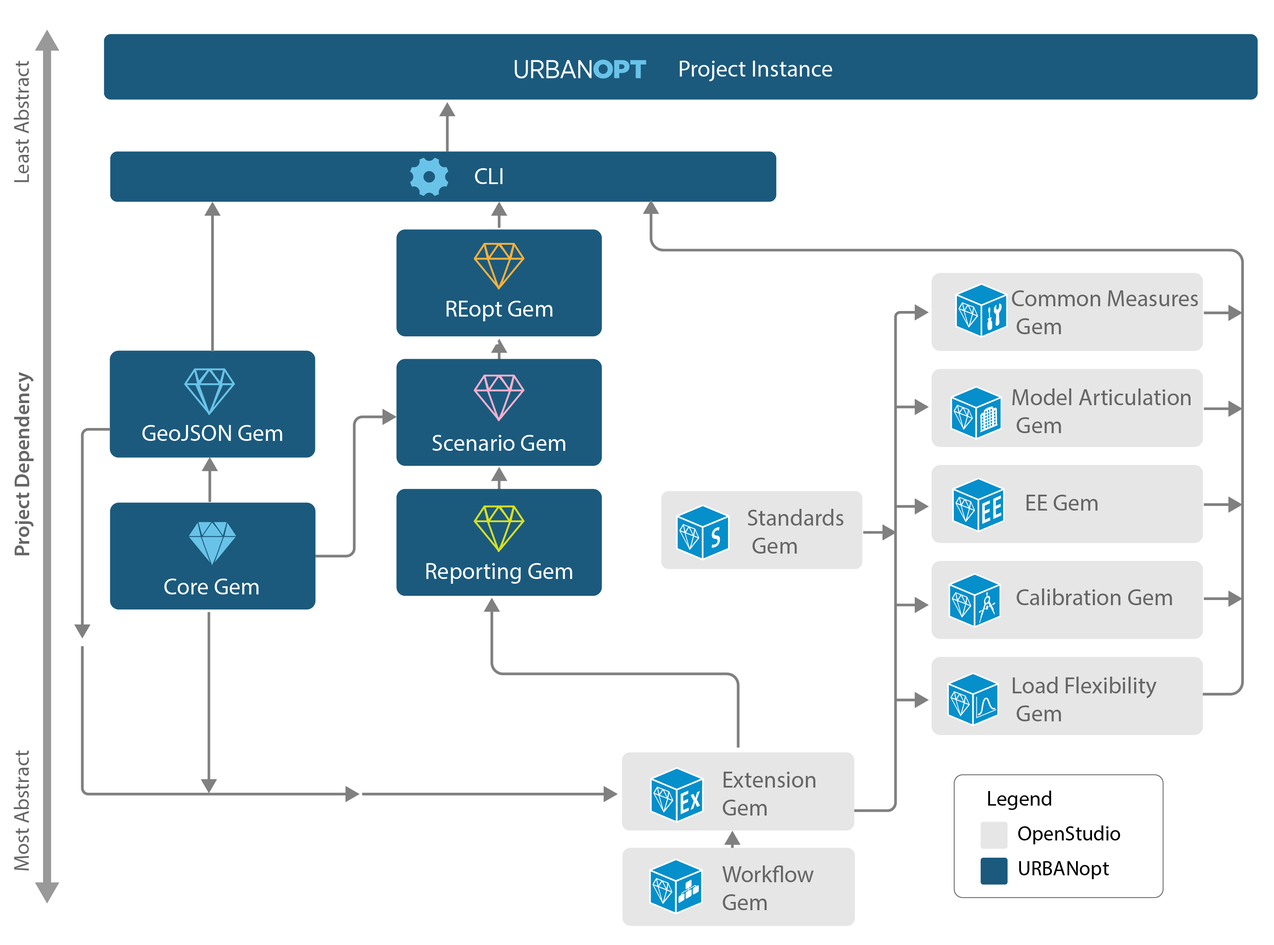
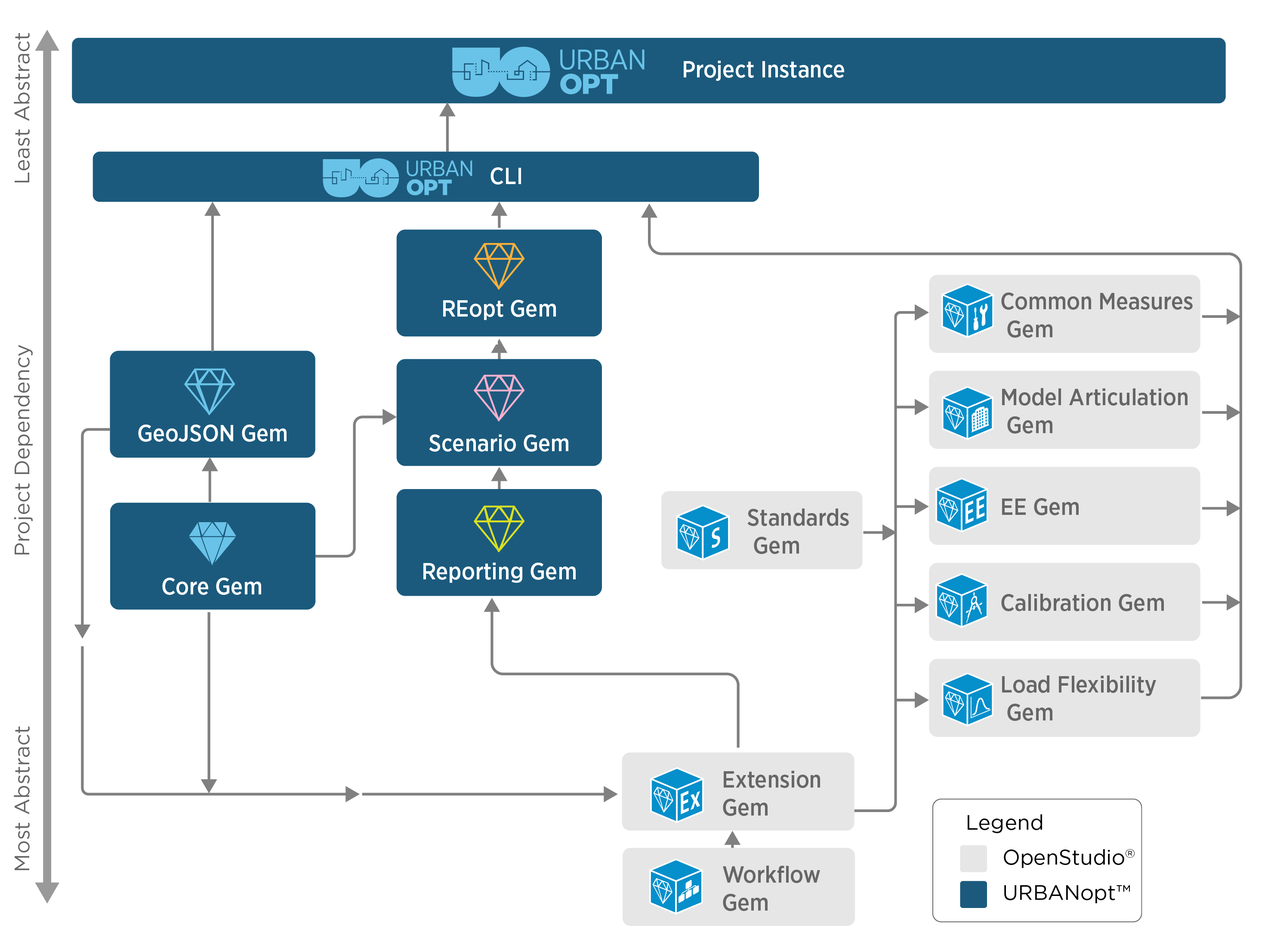
diagram updates

diff --git a/_site/index.html b/_site/index.html
@@ -1,1 +1,1 @@
-<!DOCTYPE html> <html lang="en-US"> <head> <meta charset="UTF-8"> <meta http-equiv="X-UA-Compatible" content="IE=Edge"> <title>Home - URBANopt Docs</title> <link rel="shortcut icon" href="/favicon.ico" type="image/x-icon"> <link rel="stylesheet" href="/assets/css/just-the-docs-default.css"> <script type="text/javascript" src="/assets/js/vendor/lunr.min.js"></script> <script type="text/javascript" src="/assets/js/just-the-docs.js"></script> <meta name="viewport" content="width=device-width, initial-scale=1"> <!-- Begin Jekyll SEO tag v2.6.1 --> <title>Home | [“URBANopt Docs”]</title> <meta name="generator" content="Jekyll v3.8.7" /> <meta property="og:title" content="Home" /> <meta property="og:locale" content="en_US" /> <meta name="description" content="[“Documentation for the URBANopt Software Development Kit”]" /> <meta property="og:description" content="[“Documentation for the URBANopt Software Development Kit”]" /> <link rel="canonical" href="http://localhost:4000/" /> <meta property="og:url" content="http://localhost:4000/" /> <meta property="og:site_name" content="[“URBANopt Docs”]" /> <script type="application/ld+json"> {"publisher":{"@type":"Organization","logo":{"@type":"ImageObject","url":"http://localhost:4000/doc_files/URBANopt-Logo-Horizontal-2Color.png"}},"url":"http://localhost:4000/","headline":"Home","name":"[“URBANopt Docs”]","description":"[“Documentation for the URBANopt Software Development Kit”]","@type":"WebSite","@context":"https://schema.org"}</script> <!-- End Jekyll SEO tag --> </head> <body> <svg xmlns="http://www.w3.org/2000/svg" style="display: none;"> <symbol id="svg-link" viewBox="0 0 24 24"> <title>Link</title> <svg xmlns="http://www.w3.org/2000/svg" width="24" height="24" viewBox="0 0 24 24" fill="none" stroke="currentColor" stroke-width="2" stroke-linecap="round" stroke-linejoin="round" class="feather feather-link"> <path d="M10 13a5 5 0 0 0 7.54.54l3-3a5 5 0 0 0-7.07-7.07l-1.72 1.71"></path><path d="M14 11a5 5 0 0 0-7.54-.54l-3 3a5 5 0 0 0 7.07 7.07l1.71-1.71"></path> </svg> </symbol> <symbol id="svg-search" viewBox="0 0 24 24"> <title>Search</title> <svg xmlns="http://www.w3.org/2000/svg" width="24" height="24" viewBox="0 0 24 24" fill="none" stroke="currentColor" stroke-width="2" stroke-linecap="round" stroke-linejoin="round" class="feather feather-search"> <circle cx="11" cy="11" r="8"></circle><line x1="21" y1="21" x2="16.65" y2="16.65"></line> </svg> </symbol> <symbol id="svg-menu" viewBox="0 0 24 24"> <title>Menu</title> <svg xmlns="http://www.w3.org/2000/svg" width="24" height="24" viewBox="0 0 24 24" fill="none" stroke="currentColor" stroke-width="2" stroke-linecap="round" stroke-linejoin="round" class="feather feather-menu"> <line x1="3" y1="12" x2="21" y2="12"></line><line x1="3" y1="6" x2="21" y2="6"></line><line x1="3" y1="18" x2="21" y2="18"></line> </svg> </symbol> <symbol id="svg-arrow-right" viewBox="0 0 24 24"> <title>Expand</title> <svg xmlns="http://www.w3.org/2000/svg" width="24" height="24" viewBox="0 0 24 24" fill="none" stroke="currentColor" stroke-width="2" stroke-linecap="round" stroke-linejoin="round" class="feather feather-chevron-right"> <polyline points="9 18 15 12 9 6"></polyline> </svg> </symbol> <symbol id="svg-doc" viewBox="0 0 24 24"> <title>Document</title> <svg xmlns="http://www.w3.org/2000/svg" width="24" height="24" viewBox="0 0 24 24" fill="none" stroke="currentColor" stroke-width="2" stroke-linecap="round" stroke-linejoin="round" class="feather feather-file"> <path d="M13 2H6a2 2 0 0 0-2 2v16a2 2 0 0 0 2 2h12a2 2 0 0 0 2-2V9z"></path><polyline points="13 2 13 9 20 9"></polyline> </svg> </symbol> </svg> <div class="side-bar"> <div class="site-header"> <a href="http://localhost:4000/" class="site-title lh-tight"> <div class="site-logo"></div> </a> <a href="#" id="menu-button" class="site-button"> <svg viewBox="0 0 24 24" class="icon"><use xlink:href="#svg-menu"></use></svg> </a> </div> <nav role="navigation" aria-label="Main" id="site-nav" class="site-nav"> <ul class="nav-list"><li class="nav-list-item active"><a href="http://localhost:4000/" class="nav-list-link active">Home</a></li><li class="nav-list-item"><a href="http://localhost:4000/getting_started/getting_started.html" class="nav-list-link">Getting Started</a></li><li class="nav-list-item"><a href="#" class="nav-list-expander"><svg viewBox="0 0 24 24"><use xlink:href="#svg-arrow-right"></use></svg></a><a href="http://localhost:4000/installation/installation.html" class="nav-list-link">Installation</a><ul class="nav-list "><li class="nav-list-item "><a href="http://localhost:4000/installation/mac.html" class="nav-list-link">Mac Installation</a></li><li class="nav-list-item "><a href="http://localhost:4000/installation/windows.html" class="nav-list-link">Windows Installation</a></li><li class="nav-list-item "><a href="http://localhost:4000/installation/linux.html" class="nav-list-link">Linux Installation</a></li><li class="nav-list-item "><a href="http://localhost:4000/installation/ditto_reader.html" class="nav-list-link">OpenDSS Installation</a></li><li class="nav-list-item "><a href="http://localhost:4000/installation/des_installation.html" class="nav-list-link">DES Installation</a></li><li class="nav-list-item "><a href="http://localhost:4000/installation/troubleshooting.html" class="nav-list-link">Troubleshooting</a></li></ul></li><li class="nav-list-item"><a href="#" class="nav-list-expander"><svg viewBox="0 0 24 24"><use xlink:href="#svg-arrow-right"></use></svg></a><a href="http://localhost:4000/workflows/workflows.html" class="nav-list-link">Workflows</a><ul class="nav-list "><li class="nav-list-item "><a href="#" class="nav-list-expander"><svg viewBox="0 0 24 24"><use xlink:href="#svg-arrow-right"></use></svg></a><a href="http://localhost:4000/workflows/reopt/reopt.html" class="nav-list-link">REopt</a><ul class="nav-list"><li class="nav-list-item "> <a href="http://localhost:4000/workflows/reopt/run_reopt.html" class="nav-list-link">Example REopt Project</a> </li><li class="nav-list-item "> <a href="http://localhost:4000/workflows/reopt/reopt_post_processing.html" class="nav-list-link">REopt Post Processing</a> </li><li class="nav-list-item "> <a href="http://localhost:4000/workflows/reopt/reopt_customization.html" class="nav-list-link">REopt Customization</a> </li></ul></li><li class="nav-list-item "><a href="http://localhost:4000/workflows/opendss/opendss.html" class="nav-list-link">OpenDSS Converter</a></li><li class="nav-list-item "><a href="http://localhost:4000/workflows/des.html" class="nav-list-link">District Energy Systems (DES)</a></li><li class="nav-list-item "><a href="http://localhost:4000/workflows/residential_workflows.html" class="nav-list-link">Residential Workflows</a></li><li class="nav-list-item "><a href="http://localhost:4000/workflows/geometry_workflows.html" class="nav-list-link">Geometry Workflows</a></li><li class="nav-list-item "><a href="http://localhost:4000/workflows/optimization.html" class="nav-list-link">Optimization Workflows</a></li></ul></li><li class="nav-list-item"><a href="#" class="nav-list-expander"><svg viewBox="0 0 24 24"><use xlink:href="#svg-arrow-right"></use></svg></a><a href="http://localhost:4000/resources/about.html" class="nav-list-link">Resources</a><ul class="nav-list "><li class="nav-list-item "><a href="http://localhost:4000/resources/definitions.html" class="nav-list-link">Definitions</a></li><li class="nav-list-item "><a href="http://localhost:4000/resources/structure.html" class="nav-list-link">Structure</a></li><li class="nav-list-item "><a href="http://localhost:4000/resources/example.html" class="nav-list-link">Example Project</a></li><li class="nav-list-item "><a href="#" class="nav-list-expander"><svg viewBox="0 0 24 24"><use xlink:href="#svg-arrow-right"></use></svg></a><a href="http://localhost:4000/resources/scenarios/scenarios.html" class="nav-list-link">Scenarios</a><ul class="nav-list"><li class="nav-list-item "> <a href="http://localhost:4000/resources/scenarios/baseline.html" class="nav-list-link">Baseline Scenario</a> </li><li class="nav-list-item "> <a href="http://localhost:4000/resources/scenarios/highefficiency.html" class="nav-list-link">High Efficiency Scenario</a> </li><li class="nav-list-item "> <a href="http://localhost:4000/resources/scenarios/evcharging.html" class="nav-list-link">EV Charging Scenario</a> </li><li class="nav-list-item "> <a href="http://localhost:4000/resources/scenarios/thermalstorage.html" class="nav-list-link">Thermal Energy Storage Scenario</a> </li></ul></li><li class="nav-list-item "><a href="#" class="nav-list-expander"><svg viewBox="0 0 24 24"><use xlink:href="#svg-arrow-right"></use></svg></a><a href="http://localhost:4000/resources/customization/customization.html" class="nav-list-link">Customization</a><ul class="nav-list"><li class="nav-list-item "> <a href="http://localhost:4000/resources/customization/base_workflow.html" class="nav-list-link">Base Workflow</a> </li><li class="nav-list-item "> <a href="http://localhost:4000/resources/customization/adding_own_measure.html" class="nav-list-link">Adding your own Measures</a> </li><li class="nav-list-item "> <a href="http://localhost:4000/resources/customization/modifying_mapper.html" class="nav-list-link">Modifying Mapper Classes</a> </li><li class="nav-list-item "> <a href="http://localhost:4000/resources/customization/new_mapper_class.html" class="nav-list-link">Creating new Mapper Classes</a> </li><li class="nav-list-item "> <a href="http://localhost:4000/resources/customization/post_processor.html" class="nav-list-link">Adding a custom Post-Processor</a> </li><li class="nav-list-item "> <a href="http://localhost:4000/resources/customization/feature_reports.html" class="nav-list-link">Feature Reports</a> </li><li class="nav-list-item "> <a href="http://localhost:4000/resources/customization/example_post_processor.html" class="nav-list-link">Example change to Post-Processor</a> </li><li class="nav-list-item "> <a href="http://localhost:4000/resources/customization/run_simulation.html" class="nav-list-link">Details of a simulation run</a> </li></ul></li><li class="nav-list-item "><a href="http://localhost:4000/resources/technical_documentation.html" class="nav-list-link">Technical Documentation</a></li></ul></li><li class="nav-list-item"><a href="#" class="nav-list-expander"><svg viewBox="0 0 24 24"><use xlink:href="#svg-arrow-right"></use></svg></a><a href="http://localhost:4000/developer_resources/developer_resources.html" class="nav-list-link">For Developers</a><ul class="nav-list "><li class="nav-list-item "><a href="http://localhost:4000/developer_resources/compatibility_matrix.html" class="nav-list-link">Compatibility Matrix</a></li><li class="nav-list-item "><a href="http://localhost:4000/developer_resources/release_instructions.html" class="nav-list-link">Release Instructions</a></li><li class="nav-list-item "><a href="http://localhost:4000/developer_resources/known_issues.html" class="nav-list-link">Release Notes</a></li></ul></li></ul> </nav> <footer class="site-footer"> </footer> </div> <div class="main" id="top"> <div id="main-header" class="main-header"> <div class="search"> <div class="search-input-wrap"> <input type="text" id="search-input" class="search-input" tabindex="0" placeholder="Search URBANopt Docs" aria-label="Search URBANopt Docs" autocomplete="off"> <label for="search-input" class="search-label"><svg viewBox="0 0 24 24" class="search-icon"><use xlink:href="#svg-search"></use></svg></label> </div> <div id="search-results" class="search-results"></div> </div> </div> <div id="main-content-wrap" class="main-content-wrap"> <div id="main-content" class="main-content" role="main"> <p><img src="doc_files/URBANopt-Logo-Horizontal-2Color.jpg" width="80%" height="80%" alt="urbanopt logo" /></p> <h1 id="urbanopt-sdk-documentation"> <a href="#urbanopt-sdk-documentation" class="anchor-heading" aria-labelledby="urbanopt-sdk-documentation"><svg viewBox="0 0 16 16" aria-hidden="true"><use xlink:href="#svg-link"></use></svg></a> URBANopt SDK Documentation </h1> <p>URBANopt<sup>™</sup> (Urban Renewable Building And Neighborhood optimization) is an EnergyPlus<sup>™</sup>- and OpenStudio<sup>©</sup>-based simulation platform aimed at district- and campus-scale thermal and electrical analysis for Community and Urban District Energy Modeling.</p> <p><strong><em>URBANopt is not a standalone program for end users.</em></strong> URBANopt is a Software Development Kit (SDK) — a collection of open source modules focused on underlying analytics for a variety of multi-building design and analysis use cases. Commercial software developers can use existing URBANopt modules, customize URBANopt modules, and create new modules to help implement the desired workflows for their end user tools. Other users of the SDK could include researchers looking to create customized workflows to perform specific environmental design tasks.</p> <p><img src="doc_files/uo_highlevel.png" alt="graphic showing urbanopt at a high level" /></p> <h2 id="use-cases"> <a href="#use-cases" class="anchor-heading" aria-labelledby="use-cases"><svg viewBox="0 0 16 16" aria-hidden="true"><use xlink:href="#svg-link"></use></svg></a> Use Cases </h2> <p>The URBANopt project is focused on enabling three primary use cases:</p> <ol> <li>Design of low energy campuses and districts through multi-building efficiency scenario analysis</li> <li>Design and optimization of grid-interactive efficient buildings (GEBs) at a district-scale in conjunction with distributed energy resources (DERs) and electric distribution systems</li> <li>Detailed design of next-generation district thermal systems</li> </ol> <p><img src="doc_files/use_cases.png" alt="main urbanopt capabilities" width="100%" height="100%" /></p> <p>The URBANopt ecosystem is shown below.</p> <p><img src="doc_files/uo_ecosystem.png" width="100%" height="100%" alt="uo ecosystem diagram" /></p> <p>Current capabilities include:</p> <ul> <li>Commercial and Residential Building modeling analyses</li> <li>Grid-Interactivity analyses (via REopt and OpenDSS)</li> <li>District Energy Systems design (via DES)</li> <li>Optimization (OSAF)</li> <li>Electric Vehicle Storage and Thermal Energy Storage</li> </ul> <h2 id="quicklinks"> <a href="#quicklinks" class="anchor-heading" aria-labelledby="quicklinks"><svg viewBox="0 0 16 16" aria-hidden="true"><use xlink:href="#svg-link"></use></svg></a> Quicklinks </h2> <p><a href="./getting_started/getting_started" class="btn btn-uo white-text">Getting Started</a> — Visit the <a href="./getting_started/getting_started">Getting Started page</a> for detailed instructions on how to use URBANopt in a variety of workflows.</p> <p><a href="./workflows/workflows" class="btn btn-uo white-text">Workflows</a> — For more details about the workflows enabled through URBANopt, visit the <a href="./workflows/workflows">Workflows</a> section.</p> <p><a href="./resources/about" class="btn btn-uo white-text">Resources</a> — Visit the <a href="./resources/about">Resources</a> section for general information on URBANopt structure and customizations.</p> <p><a href="./developer_resources/developer_resources" class="btn btn-uo white-text">For Developers</a> — Visit the <a href="developer_resources/developer_resources">Developer Resources</a> section for details on how to develop and test new URBANopt functionality as well as a compatibility matrix for all URBANopt dependencies.</p> <hr> <footer> <p class="text-small text-grey-dk-100 mb-0">URBANopt, Copyright (c) 2019-2021, Alliance for Sustainable Energy, LLC, and other contributors. All rights reserved.</p> </footer> </div> </div> <div class="search-overlay"></div> </div> </body> </html>
+<!DOCTYPE html> <html lang="en-US"> <head> <meta charset="UTF-8"> <meta http-equiv="X-UA-Compatible" content="IE=Edge"> <title>Home - URBANopt Docs</title> <link rel="shortcut icon" href="/favicon.ico" type="image/x-icon"> <link rel="stylesheet" href="/assets/css/just-the-docs-default.css"> <script type="text/javascript" src="/assets/js/vendor/lunr.min.js"></script> <script type="text/javascript" src="/assets/js/just-the-docs.js"></script> <meta name="viewport" content="width=device-width, initial-scale=1"> <!-- Begin Jekyll SEO tag v2.6.1 --> <title>Home | [“URBANopt Docs”]</title> <meta name="generator" content="Jekyll v3.8.7" /> <meta property="og:title" content="Home" /> <meta property="og:locale" content="en_US" /> <meta name="description" content="[“Documentation for the URBANopt Software Development Kit”]" /> <meta property="og:description" content="[“Documentation for the URBANopt Software Development Kit”]" /> <link rel="canonical" href="http://localhost:4000/" /> <meta property="og:url" content="http://localhost:4000/" /> <meta property="og:site_name" content="[“URBANopt Docs”]" /> <script type="application/ld+json"> {"publisher":{"@type":"Organization","logo":{"@type":"ImageObject","url":"http://localhost:4000/doc_files/URBANopt-Logo-Horizontal-2Color.png"}},"url":"http://localhost:4000/","headline":"Home","name":"[“URBANopt Docs”]","description":"[“Documentation for the URBANopt Software Development Kit”]","@type":"WebSite","@context":"https://schema.org"}</script> <!-- End Jekyll SEO tag --> </head> <body> <svg xmlns="http://www.w3.org/2000/svg" style="display: none;"> <symbol id="svg-link" viewBox="0 0 24 24"> <title>Link</title> <svg xmlns="http://www.w3.org/2000/svg" width="24" height="24" viewBox="0 0 24 24" fill="none" stroke="currentColor" stroke-width="2" stroke-linecap="round" stroke-linejoin="round" class="feather feather-link"> <path d="M10 13a5 5 0 0 0 7.54.54l3-3a5 5 0 0 0-7.07-7.07l-1.72 1.71"></path><path d="M14 11a5 5 0 0 0-7.54-.54l-3 3a5 5 0 0 0 7.07 7.07l1.71-1.71"></path> </svg> </symbol> <symbol id="svg-search" viewBox="0 0 24 24"> <title>Search</title> <svg xmlns="http://www.w3.org/2000/svg" width="24" height="24" viewBox="0 0 24 24" fill="none" stroke="currentColor" stroke-width="2" stroke-linecap="round" stroke-linejoin="round" class="feather feather-search"> <circle cx="11" cy="11" r="8"></circle><line x1="21" y1="21" x2="16.65" y2="16.65"></line> </svg> </symbol> <symbol id="svg-menu" viewBox="0 0 24 24"> <title>Menu</title> <svg xmlns="http://www.w3.org/2000/svg" width="24" height="24" viewBox="0 0 24 24" fill="none" stroke="currentColor" stroke-width="2" stroke-linecap="round" stroke-linejoin="round" class="feather feather-menu"> <line x1="3" y1="12" x2="21" y2="12"></line><line x1="3" y1="6" x2="21" y2="6"></line><line x1="3" y1="18" x2="21" y2="18"></line> </svg> </symbol> <symbol id="svg-arrow-right" viewBox="0 0 24 24"> <title>Expand</title> <svg xmlns="http://www.w3.org/2000/svg" width="24" height="24" viewBox="0 0 24 24" fill="none" stroke="currentColor" stroke-width="2" stroke-linecap="round" stroke-linejoin="round" class="feather feather-chevron-right"> <polyline points="9 18 15 12 9 6"></polyline> </svg> </symbol> <symbol id="svg-doc" viewBox="0 0 24 24"> <title>Document</title> <svg xmlns="http://www.w3.org/2000/svg" width="24" height="24" viewBox="0 0 24 24" fill="none" stroke="currentColor" stroke-width="2" stroke-linecap="round" stroke-linejoin="round" class="feather feather-file"> <path d="M13 2H6a2 2 0 0 0-2 2v16a2 2 0 0 0 2 2h12a2 2 0 0 0 2-2V9z"></path><polyline points="13 2 13 9 20 9"></polyline> </svg> </symbol> </svg> <div class="side-bar"> <div class="site-header"> <a href="http://localhost:4000/" class="site-title lh-tight"> <div class="site-logo"></div> </a> <a href="#" id="menu-button" class="site-button"> <svg viewBox="0 0 24 24" class="icon"><use xlink:href="#svg-menu"></use></svg> </a> </div> <nav role="navigation" aria-label="Main" id="site-nav" class="site-nav"> <ul class="nav-list"><li class="nav-list-item active"><a href="http://localhost:4000/" class="nav-list-link active">Home</a></li><li class="nav-list-item"><a href="http://localhost:4000/getting_started/getting_started.html" class="nav-list-link">Getting Started</a></li><li class="nav-list-item"><a href="#" class="nav-list-expander"><svg viewBox="0 0 24 24"><use xlink:href="#svg-arrow-right"></use></svg></a><a href="http://localhost:4000/installation/installation.html" class="nav-list-link">Installation</a><ul class="nav-list "><li class="nav-list-item "><a href="http://localhost:4000/installation/mac.html" class="nav-list-link">Mac Installation</a></li><li class="nav-list-item "><a href="http://localhost:4000/installation/windows.html" class="nav-list-link">Windows Installation</a></li><li class="nav-list-item "><a href="http://localhost:4000/installation/linux.html" class="nav-list-link">Linux Installation</a></li><li class="nav-list-item "><a href="http://localhost:4000/installation/ditto_reader.html" class="nav-list-link">OpenDSS Installation</a></li><li class="nav-list-item "><a href="http://localhost:4000/installation/des_installation.html" class="nav-list-link">DES Installation</a></li><li class="nav-list-item "><a href="http://localhost:4000/installation/troubleshooting.html" class="nav-list-link">Troubleshooting</a></li></ul></li><li class="nav-list-item"><a href="#" class="nav-list-expander"><svg viewBox="0 0 24 24"><use xlink:href="#svg-arrow-right"></use></svg></a><a href="http://localhost:4000/workflows/workflows.html" class="nav-list-link">Workflows</a><ul class="nav-list "><li class="nav-list-item "><a href="#" class="nav-list-expander"><svg viewBox="0 0 24 24"><use xlink:href="#svg-arrow-right"></use></svg></a><a href="http://localhost:4000/workflows/reopt/reopt.html" class="nav-list-link">REopt</a><ul class="nav-list"><li class="nav-list-item "> <a href="http://localhost:4000/workflows/reopt/run_reopt.html" class="nav-list-link">Example REopt Project</a> </li><li class="nav-list-item "> <a href="http://localhost:4000/workflows/reopt/reopt_post_processing.html" class="nav-list-link">REopt Post Processing</a> </li><li class="nav-list-item "> <a href="http://localhost:4000/workflows/reopt/reopt_customization.html" class="nav-list-link">REopt Customization</a> </li></ul></li><li class="nav-list-item "><a href="http://localhost:4000/workflows/opendss/opendss.html" class="nav-list-link">OpenDSS Converter</a></li><li class="nav-list-item "><a href="http://localhost:4000/workflows/des.html" class="nav-list-link">District Energy Systems (DES)</a></li><li class="nav-list-item "><a href="http://localhost:4000/workflows/residential_workflows.html" class="nav-list-link">Residential Workflows</a></li><li class="nav-list-item "><a href="http://localhost:4000/workflows/geometry_workflows.html" class="nav-list-link">Geometry Workflows</a></li><li class="nav-list-item "><a href="http://localhost:4000/workflows/optimization.html" class="nav-list-link">Optimization Workflows</a></li></ul></li><li class="nav-list-item"><a href="#" class="nav-list-expander"><svg viewBox="0 0 24 24"><use xlink:href="#svg-arrow-right"></use></svg></a><a href="http://localhost:4000/resources/about.html" class="nav-list-link">Resources</a><ul class="nav-list "><li class="nav-list-item "><a href="http://localhost:4000/resources/definitions.html" class="nav-list-link">Definitions</a></li><li class="nav-list-item "><a href="http://localhost:4000/resources/structure.html" class="nav-list-link">Structure</a></li><li class="nav-list-item "><a href="http://localhost:4000/resources/example.html" class="nav-list-link">Example Project</a></li><li class="nav-list-item "><a href="#" class="nav-list-expander"><svg viewBox="0 0 24 24"><use xlink:href="#svg-arrow-right"></use></svg></a><a href="http://localhost:4000/resources/scenarios/scenarios.html" class="nav-list-link">Scenarios</a><ul class="nav-list"><li class="nav-list-item "> <a href="http://localhost:4000/resources/scenarios/baseline.html" class="nav-list-link">Baseline Scenario</a> </li><li class="nav-list-item "> <a href="http://localhost:4000/resources/scenarios/highefficiency.html" class="nav-list-link">High Efficiency Scenario</a> </li><li class="nav-list-item "> <a href="http://localhost:4000/resources/scenarios/evcharging.html" class="nav-list-link">EV Charging Scenario</a> </li><li class="nav-list-item "> <a href="http://localhost:4000/resources/scenarios/thermalstorage.html" class="nav-list-link">Thermal Energy Storage Scenario</a> </li></ul></li><li class="nav-list-item "><a href="#" class="nav-list-expander"><svg viewBox="0 0 24 24"><use xlink:href="#svg-arrow-right"></use></svg></a><a href="http://localhost:4000/resources/customization/customization.html" class="nav-list-link">Customization</a><ul class="nav-list"><li class="nav-list-item "> <a href="http://localhost:4000/resources/customization/base_workflow.html" class="nav-list-link">Base Workflow</a> </li><li class="nav-list-item "> <a href="http://localhost:4000/resources/customization/adding_own_measure.html" class="nav-list-link">Adding your own Measures</a> </li><li class="nav-list-item "> <a href="http://localhost:4000/resources/customization/modifying_mapper.html" class="nav-list-link">Modifying Mapper Classes</a> </li><li class="nav-list-item "> <a href="http://localhost:4000/resources/customization/new_mapper_class.html" class="nav-list-link">Creating new Mapper Classes</a> </li><li class="nav-list-item "> <a href="http://localhost:4000/resources/customization/post_processor.html" class="nav-list-link">Adding a custom Post-Processor</a> </li><li class="nav-list-item "> <a href="http://localhost:4000/resources/customization/feature_reports.html" class="nav-list-link">Feature Reports</a> </li><li class="nav-list-item "> <a href="http://localhost:4000/resources/customization/example_post_processor.html" class="nav-list-link">Example change to Post-Processor</a> </li><li class="nav-list-item "> <a href="http://localhost:4000/resources/customization/run_simulation.html" class="nav-list-link">Details of a simulation run</a> </li></ul></li><li class="nav-list-item "><a href="http://localhost:4000/resources/technical_documentation.html" class="nav-list-link">Technical Documentation</a></li></ul></li><li class="nav-list-item"><a href="#" class="nav-list-expander"><svg viewBox="0 0 24 24"><use xlink:href="#svg-arrow-right"></use></svg></a><a href="http://localhost:4000/developer_resources/developer_resources.html" class="nav-list-link">For Developers</a><ul class="nav-list "><li class="nav-list-item "><a href="http://localhost:4000/developer_resources/compatibility_matrix.html" class="nav-list-link">Compatibility Matrix</a></li><li class="nav-list-item "><a href="http://localhost:4000/developer_resources/release_instructions.html" class="nav-list-link">Release Instructions</a></li><li class="nav-list-item "><a href="http://localhost:4000/developer_resources/known_issues.html" class="nav-list-link">Release Notes</a></li></ul></li></ul> </nav> <footer class="site-footer"> </footer> </div> <div class="main" id="top"> <div id="main-header" class="main-header"> <div class="search"> <div class="search-input-wrap"> <input type="text" id="search-input" class="search-input" tabindex="0" placeholder="Search URBANopt Docs" aria-label="Search URBANopt Docs" autocomplete="off"> <label for="search-input" class="search-label"><svg viewBox="0 0 24 24" class="search-icon"><use xlink:href="#svg-search"></use></svg></label> </div> <div id="search-results" class="search-results"></div> </div> </div> <div id="main-content-wrap" class="main-content-wrap"> <div id="main-content" class="main-content" role="main"> <p><img src="doc_files/URBANopt-Logo-Horizontal-2Color.jpg" width="80%" height="80%" alt="urbanopt logo" /></p> <h1 id="urbanopt-sdk-documentation"> <a href="#urbanopt-sdk-documentation" class="anchor-heading" aria-labelledby="urbanopt-sdk-documentation"><svg viewBox="0 0 16 16" aria-hidden="true"><use xlink:href="#svg-link"></use></svg></a> URBANopt SDK Documentation </h1> <p>URBANopt<sup>™</sup> (Urban Renewable Building And Neighborhood optimization) is an EnergyPlus<sup>™</sup>- and OpenStudio<sup>©</sup>-based simulation platform aimed at district- and campus-scale thermal and electrical analysis for Community and Urban District Energy Modeling.</p> <p><strong><em>URBANopt is not a standalone program for end users.</em></strong> URBANopt is a Software Development Kit (SDK) — a collection of open source modules focused on underlying analytics for a variety of multi-building design and analysis use cases. Commercial software developers can use existing URBANopt modules, customize URBANopt modules, and create new modules to help implement the desired workflows for their end user tools. Other users of the SDK could include researchers looking to create customized workflows to perform specific environmental design tasks.</p> <p><img src="doc_files/uo_highlevel.png" alt="graphic showing urbanopt at a high level" /></p> <h2 id="use-cases"> <a href="#use-cases" class="anchor-heading" aria-labelledby="use-cases"><svg viewBox="0 0 16 16" aria-hidden="true"><use xlink:href="#svg-link"></use></svg></a> Use Cases </h2> <p>The URBANopt project is focused on enabling three primary use cases:</p> <ol> <li>Design of low energy campuses and districts through multi-building efficiency scenario analysis</li> <li>Design and optimization of grid-interactive efficient buildings (GEBs) at a district-scale in conjunction with distributed energy resources (DERs) and electric distribution systems</li> <li>Detailed design of next-generation district thermal systems</li> </ol> <p><img src="doc_files/use_cases.png" alt="main urbanopt capabilities" width="100%" height="100%" /></p> <p>A summary of the capabilities associated with each use case is shown below:</p> <p><img src="doc_files/urbanopt-diagrams_structure-less-detail.png" width="100%" height="100%" alt="uo ecosystem diagram" /></p> <p>Current capabilities include:</p> <ul> <li>Commercial and Residential Building modeling analyses</li> <li>Grid-Interactivity analyses (via REopt and OpenDSS)</li> <li>District Energy Systems design (via DES)</li> <li>Optimization (OSAF)</li> <li>Electric Vehicle Storage and Thermal Energy Storage</li> </ul> <h2 id="quicklinks"> <a href="#quicklinks" class="anchor-heading" aria-labelledby="quicklinks"><svg viewBox="0 0 16 16" aria-hidden="true"><use xlink:href="#svg-link"></use></svg></a> Quicklinks </h2> <p><a href="./getting_started/getting_started" class="btn btn-uo white-text">Getting Started</a> — Visit the <a href="./getting_started/getting_started">Getting Started page</a> for detailed instructions on how to use URBANopt in a variety of workflows.</p> <p><a href="./workflows/workflows" class="btn btn-uo white-text">Workflows</a> — For more details about the workflows enabled through URBANopt, visit the <a href="./workflows/workflows">Workflows</a> section.</p> <p><a href="./resources/about" class="btn btn-uo white-text">Resources</a> — Visit the <a href="./resources/about">Resources</a> section for general information on URBANopt structure and customizations.</p> <p><a href="./developer_resources/developer_resources" class="btn btn-uo white-text">For Developers</a> — Visit the <a href="developer_resources/developer_resources">Developer Resources</a> section for details on how to develop and test new URBANopt functionality as well as a compatibility matrix for all URBANopt dependencies.</p> <hr> <footer> <p class="text-small text-grey-dk-100 mb-0">URBANopt, Copyright (c) 2019-2021, Alliance for Sustainable Energy, LLC, and other contributors. All rights reserved.</p> </footer> </div> </div> <div class="search-overlay"></div> </div> </body> </html>

diff --git a/doc_files/design_doc.md b/doc_files/design_doc.md
@@ -56,7 +56,7 @@ Figure 2: Ecosystem and public/private partnership model
 
 # Software Design Principles
 
-The communities and urban design space is too large for any tool, SDK, or engine to address all of the possible use cases and design decisions of interest.  Rather than building a single monolithic piece of software, the URBANopt project will produce several modules which will operate as part of the larger communities and urban design and modeling ecosystem.  These modules can be shared across the community and combined as needed by tool vendors to save time and effort.  We encourage collaboration with external parties who may want to use URBANopt modules directly, modify URBANopt modules, or build their own modules.  To encourage modular reuse and collaboration, URBANopt software development will adopt the following design principles: 
+The communities and urban design space is too large for any tool, SDK, or engine to address all of the possible use cases and design decisions of interest.  Rather than building a single monolithic piece of software, the URBANopt project is made up of several modules that operate as part of the larger communities and urban design and modeling ecosystem.  These modules can be shared across the community and combined as needed by tool vendors to save time and effort.  We encourage collaboration with external parties who may want to use URBANopt modules directly, modify URBANopt modules, or build their own modules.  To encourage modular reuse and collaboration, URBANopt software development has adopted the following design principles: 
 
 - URBANopt modules have clear inputs and outputs.  Any module can be replaced by another module with the same inputs and outputs. 
 - URBANopt modules are developed in separate, single-purpose repositories with clear ownership, dependencies, licensing, documentation, and testing.
@@ -66,12 +66,19 @@ The communities and urban design space is too large for any tool, SDK, or engine
 
 # Software Architecture
 
-In line with the software design principles outlined above, URBANopt projects are assembled from multiple functional modules. Because there is so much variability in district-scale energy analysis, the end user is responsible for combining all of the URBANopt (and other) modules needed to implement the desired workflow for their project.  Multiple example projects will be provided to give users a point of reference when starting out.
+URBANopt interfaces with multiple software technologies to provide the integration outlined in the [use cases](../index.md#use-cases). Figure 3 shows the core URBANopt modules as well as the modules providing grid-interactivity and district energy system capabilities.
 
-Figure 3: Software Architecture for an Example URBANopt Project
-![uo_architecture_example](uo_platform_diagram_f.jpg)
+Figure 3: URBANopt Modules
+![urbanopt diagram modules structure](urbanopt-diagrams_structure-more-detail.png)
 
-The example project shown in Figure 3 combines a set of URBANopt modules to implement a
+
+In line with the software design principles outlined above, URBANopt projects are assembled from multiple functional modules. A command line interface (CLI) has been developed to aid users in combining the modules needed to implement a desired workflow. Example projects are also available through the CLI for users to test a particular workflow before adapting it to their particular use case.  Because there is so much variability in district-scale energy analysis, the end user may need to customize some of the URBANopt (and other) modules needed to implement the desired workflow for their project. [Customization documentation](../resources/customization/customization.md) is available for users to consult during their particular project development. 
+
+
+Figure 4: Software Architecture for an Example URBANopt Project
+![uo_architecture_example](urbanopt-diagrams_gems-to-cli.png)
+
+The example project shown in Figure 4 combines a set of URBANopt modules to implement a
 basic district-scale energy analysis workflow.  Each block shown in Figure 3 represents a
 different module, each developed and managed in separate source code repositories with
 independent release schedules. The URBANopt GeoJSON Gem module provides functionality to

diff --git a/resources/structure.md b/resources/structure.md
@@ -7,7 +7,7 @@ nav_order: 2
 
 The URBANopt<sup>&trade;</sup> SDK consists of four main modules at its core: `urbanopt-core-gem`, `urbanopt-scenario-gem`, `urbanopt-reopt-gem`, and`urbanopt-geojson-gem`, as well as three connector modules to enable additional capabilities: `urbanopt-reopt-gem` to access the REopt Lite API, `urbanopt-ditto-reader` and its associated command line interface (CLI) `ditto cli` to access the OpenDSS workflow, and finally `geojson-modelica-translator` and its associated CLI `des cli` to enable the District Energy Systems functionality. The modules are connected together and accessed via the **Command Line Interface** (`urbanopt-cli`). Visit the [Getting Started](../getting_started/getting_started) page for more details on how to run an URBANopt project.
 
-![URBANopt Gems](../doc_files/urbanopt-diagram-to-cli.png)
+![URBANopt Gems](../doc_files/urbanopt-diagrams_gems-to-cli.png)
 
 The **Core** gem defines a FeatureFile class. The feature file format currently supported is GeoJSON, other formats can be supported in the future as more workflows are integrated in the SDK. The FeatureFile describes properties of each `Feature`, such as location, floor area, number of stories, building type, cooling source, etc. This Core gem in the SDK architecture allows the development of new modules that are independent of other modules.
 

diff --git a/resources/customization/base_workflow.md b/resources/customization/base_workflow.md
@@ -10,8 +10,8 @@ The `mappers` folder contains `base_workflow.osw` which serves as a simulation i
 
 The URBANopt GeoJSON Workflow uses building footprints to create building models.  The diagram below contains details on the sequence and purpose of measures used to accomplish this task.
 
-<!--- TODO: Update diagram to Urban Geometry Creation Zoning measure -->
-![urbanopt measure workflow diagram](../../doc_files/urbanopt_default_measures_workflow.png)
+
+![urbanopt measure workflow diagram](../../doc_files/urbanopt-diagrams_measures_workflow.png)
 
 All measures contained in the base workflow are listed below:
 

diff --git a/index.md b/index.md
@@ -29,7 +29,7 @@ The URBANopt project is focused on enabling three primary use cases:
 
 A summary of the capabilities associated with each use case is shown below:
 
-<img src="doc_files/uo_ecosystem.png" width="100%" height="100%" alt="uo ecosystem diagram">
+<img src="doc_files/urbanopt-diagrams_structure-less-detail.png" width="100%" height="100%" alt="uo ecosystem diagram">
 
 Current capabilities include:
 
